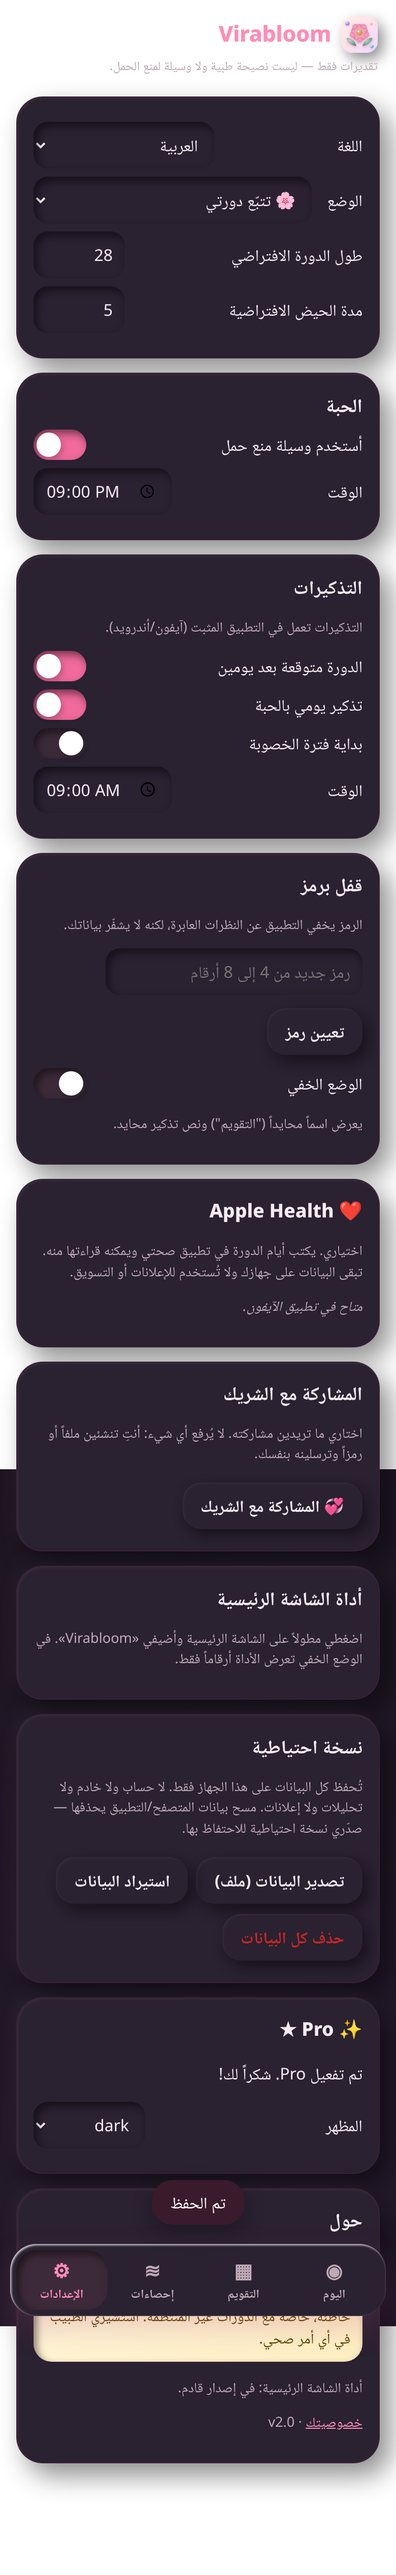
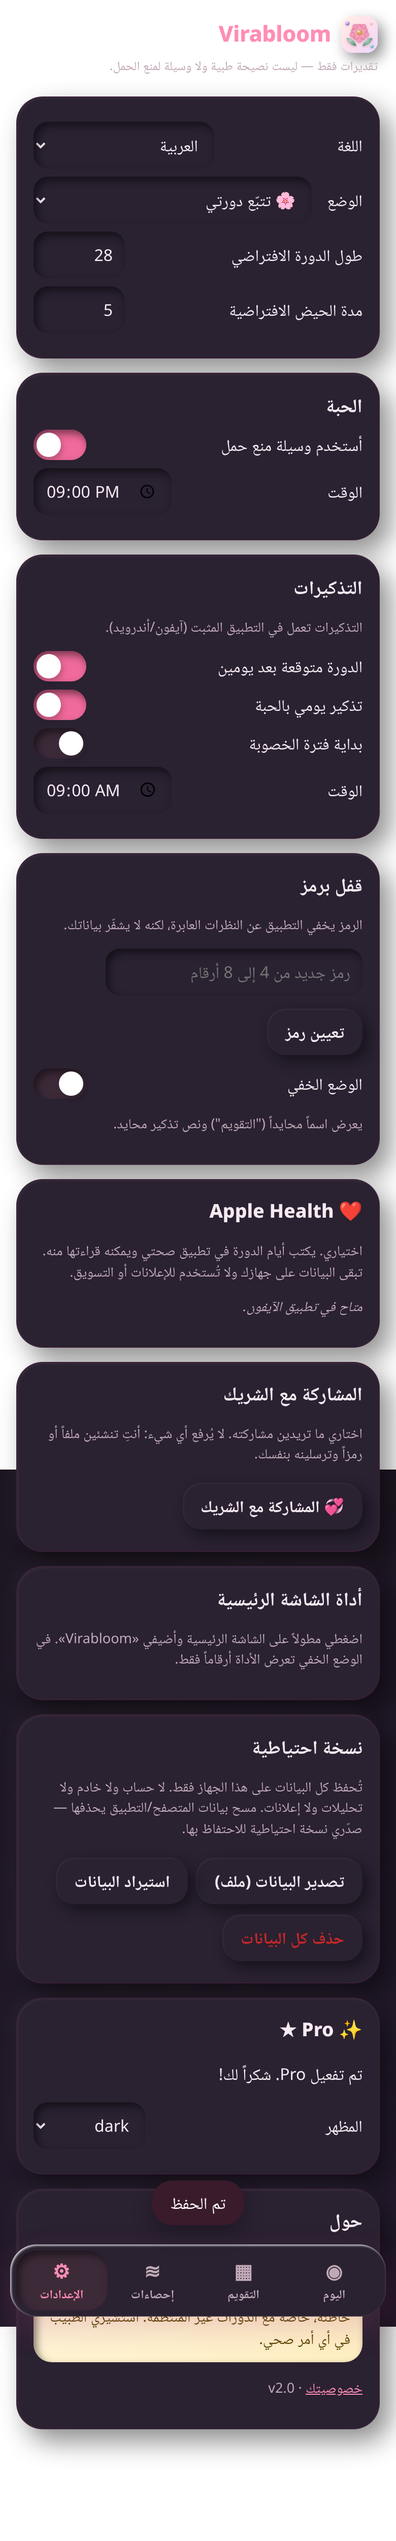
Native: if StoreKit product can't load, hide all Pro purchase UI and unlock everything free (no price, no dead buttons); remove stale widget 'later version' line; native store QA

diff --git a/app.js b/app.js
@@ -30,7 +30,9 @@ const fmt = (n, o = { day: 'numeric', month: 'short' }) => new Intl.DateTimeForm
 const M = () => S.settings.mode || 'track', name = () => S.settings.discreet ? t('discreetName') : t('appName');
 const save = async () => { await db.set('state', S); syncReminders(); syncWidget(); healthPush(); };
 const toast = m => { const el = $('#toast'); el.textContent = m; el.hidden = false; clearTimeout(toast.t); toast.t = setTimeout(() => el.hidden = true, 2200); };
-const isPro = () => { const v = S.settings.supporter; return v === 'iap' || v === LEGACY_SUPPORTER_HASH || PRO_CODE_HASHES.includes(v); }, isSup = isPro;
+// Native: if the store product can't load (e.g. IAP not live), there is no purchase UI and everything is free.
+let storeFree = N.isNative, storePrice = null;
+const isPro = () => { const v = S.settings.supporter; return storeFree || v === 'iap' || v === LEGACY_SUPPORTER_HASH || PRO_CODE_HASHES.includes(v); }, isSup = isPro;
 const lockBtn = (href, label, id) => isPro() ? `<a class="btn big" href="${href}" id="${id}">${label}</a>` : `<a class="btn big locked" href="#/pro" id="${id}">🔒 ${label} <span class="badge">${t('pro')}</span></a>`;
 const chips = (id, list, on, multi = true) => `<div class="chips" id="${id}" data-multi="${multi ? 1 : 0}">${list.map(v => `<button class="chip ${(multi ? on.includes(v) : on === v) ? 'on' : ''}" data-v="${v}">${t(v)}</button>`).join('')}</div>`;
 
@@ -188,8 +190,8 @@ async function settings() { const st = S.settings, sup = isSup(), bioOk = await 
    <div class="card clay"><h3>${t('widget')}</h3><p class="muted">${t('widgetNote')}</p>${sup ? '' : `<p class="muted">🔒 ${t('proWidget')}</p>`}</div>
    <div class="card clay"><h3>${t('backup')}</h3><p class="muted">${t('privacy')}</p><div class="actions"><button class="btn" id="exp">${t('exportData')}</button>
     <label class="btn">${t('importData')}<input id="imp" type="file" accept="application/json,.json" hidden></label></div><button class="btn danger" id="del">${t('deleteAll')}</button></div>
-   <div class="card clay" id="supcard"><h3>✨ ${t('pro')} ${sup ? '★' : ''}</h3>${sup ? `<p>${t('proOwned')}</p><label class="row">${t('theme')}<select id="theme">${['rose', 'lavender', 'teal', 'dark'].map(x => `<option ${x === st.theme ? 'selected' : ''}>${x}</option>`).join('')}</select></label>` : `<p class="muted">${t('proPitch')}</p><a class="btn" href="#/pro" id="seepro">${t('proSee')}</a>`}</div>
-   <div class="card clay"><h3>${t('about')}</h3><p class="warn">${t('disclaimer')}</p><p class="muted">${t('widgetSoon')}</p><p class="muted"><a href="privacy.html">${t('privacyTitle')}</a> · v2.0</p></div>`);
+   ${storeFree ? `<div class="card clay" id="themecard"><label class="row">${t('theme')}<select id="theme">${['rose', 'lavender', 'teal', 'dark'].map(x => `<option ${x === st.theme ? 'selected' : ''}>${x}</option>`).join('')}</select></label></div>` : `<div class="card clay" id="supcard"><h3>✨ ${t('pro')} ${sup ? '★' : ''}</h3>${sup ? `<p>${t('proOwned')}</p><label class="row">${t('theme')}<select id="theme">${['rose', 'lavender', 'teal', 'dark'].map(x => `<option ${x === st.theme ? 'selected' : ''}>${x}</option>`).join('')}</select></label>` : `<p class="muted">${t('proPitch')}</p><a class="btn" href="#/pro" id="seepro">${t('proSee')}</a>`}</div>`}
+   <div class="card clay"><h3>${t('about')}</h3><p class="warn">${t('disclaimer')}</p><p class="muted"><a href="privacy.html">${t('privacyTitle')}</a> · v2.0</p></div>`);
   bindLang(); const sv = async () => { await save(); toast(t('saved')); };
   $('#mode').onchange = async e => { st.mode = e.target.value; if (st.mode === 'bc') st.pill.on = true; await sv(); settings(); };
   if ($('#lmp')) $('#lmp').onchange = async e => { st.lmp = e.target.value; await sv(); };
@@ -220,6 +222,7 @@ function route() { applyLang(); const pm = location.hash.match(/^#\/p\/(c1\.[\w-
 
 (async () => { if (/^#\/p\/c1\./.test(location.hash)) { addEventListener('hashchange', route); return route(); } try { const s = await db.get('state'); if (s) S = { ...S, ...s, settings: { ...structuredClone(DEF), ...s.settings, pill: { ...DEF.pill, ...s.settings?.pill }, rem: { ...DEF.rem, ...s.settings?.rem } } }; } catch (e) { console.warn(e); }
   addEventListener('hashchange', route); route(); syncReminders();
+  if (N.isNative) { const p = await Promise.race([N.iapPrice(), new Promise(r => setTimeout(() => r(null), 6000))]); if (p) { storePrice = p; storeFree = false; route(); syncWidget(); } }
   if ('serviceWorker' in navigator && location.protocol === 'https:' && !N.isNative) navigator.serviceWorker.register('sw.js'); })();
 
 // ---------- partner sharing (no server) ----------
@@ -284,7 +287,7 @@ async function healthImport() { const rows = await N.healthRead(dn(todayStr()) -
   S.periods.sort((a, b) => dn(a.start) - dn(b.start)); await save(); return n; }
 
 // ---------- Pro (one-time, gentle: shown only when the user opens it or taps a Pro feature) ----------
-function pro() { const st = S.settings, owned = isPro(), native = N.isNative, rid = Math.random().toString(36).slice(2, 8).toUpperCase();
+function pro() { if (storeFree) { location.replace('#/settings'); return settings(); } const st = S.settings, owned = isPro(), native = N.isNative, rid = Math.random().toString(36).slice(2, 8).toUpperCase();
   const mail = `mailto:${SUPPORT_EMAIL}?subject=${encodeURIComponent(t('pcosMailSubj'))}&body=${encodeURIComponent(t('pcosMailBody', rid))}`;
   shell('settings', `<div class="card clay pro"><h2>✨ ${t('proTitle')}</h2><p><b>${t('proPitch')}</b></p><p>✅ ${t('proFree')}</p><p>✨ ${t('proIncl')}</p>
    ${owned ? `<p class="okmsg" id="proowned">${t('proOwned')}</p>` : native ? `<button class="btn primary big" id="iap">${t('proBuy', PRO_PRICE)}</button><button class="btn" id="restore">${t('restore')}</button>`
@@ -294,5 +297,5 @@ function pro() { const st = S.settings, owned = isPro(), native = N.isNative, ri
    <a class="btn" href="#/settings">‹ ${t('settings')}</a>`);
   const done = async v => { st.supporter = v; await save(); applyLang(); toast(t('proOwned')); pro(); };
   if ($('#redeem')) $('#redeem').onclick = async () => { const h = await sha($('#code').value.trim().toUpperCase()); if (PRO_CODE_HASHES.includes(h) || h === LEGACY_SUPPORTER_HASH) done(h); else { $('#cmsg').className = 'err'; $('#cmsg').textContent = t('badCode'); } };
-  if ($('#iap')) { N.iapPrice().then(p => p && ($('#iap').textContent = t('proBuy', p))); $('#iap').onclick = async () => { if (await N.iapBuy()) done('iap'); };
+  if ($('#iap')) { $('#iap').textContent = t('proBuy', storePrice); $('#iap').onclick = async () => { if (await N.iapBuy()) done('iap'); };
     $('#restore').onclick = async () => { if (await N.iapRestore()) done('iap'); }; } }
